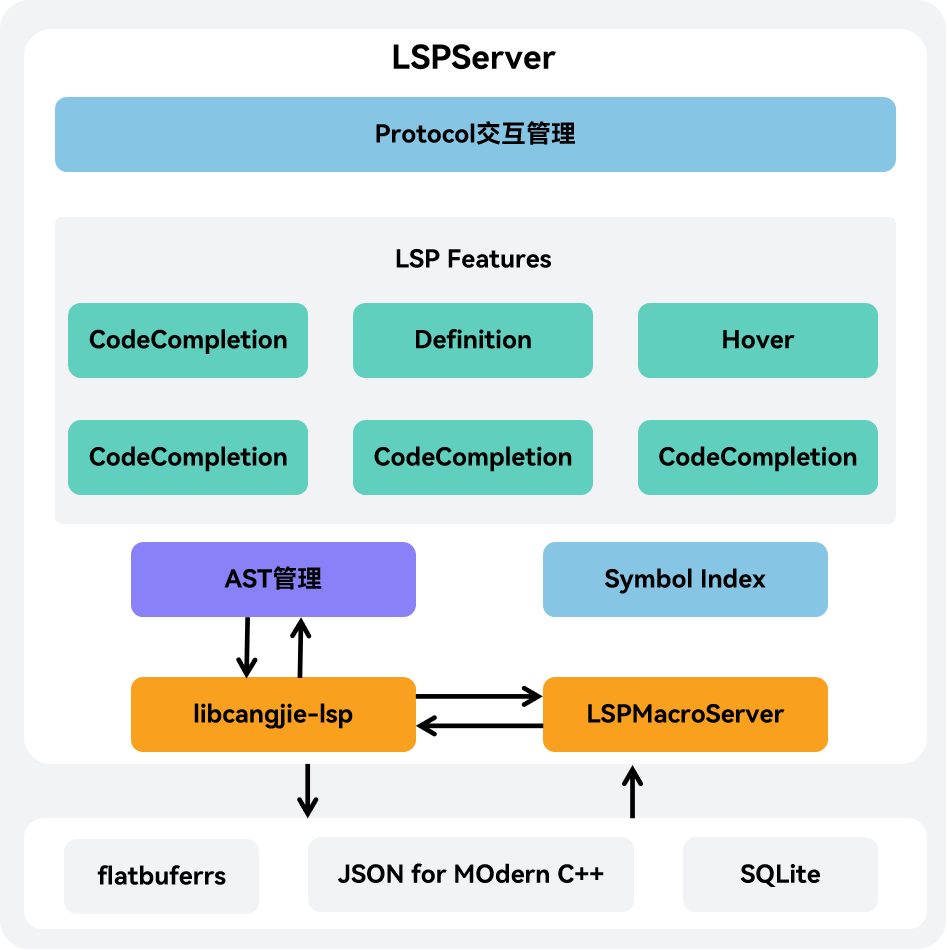
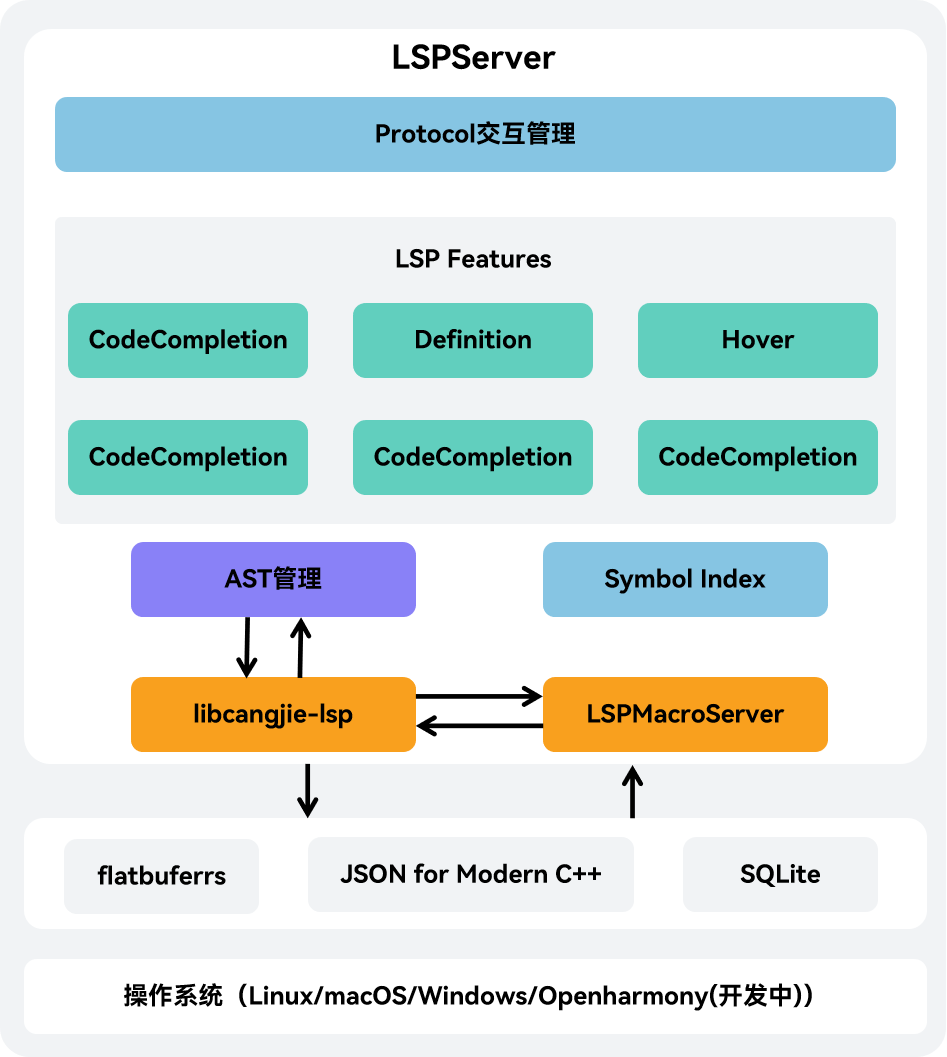
fix: change lsp doc png

diff --git a/cangjie-language-server/src/json-rpc/StdioTransport.cpp b/cangjie-language-server/src/json-rpc/StdioTransport.cpp
@@ -82,7 +82,7 @@ void StdioTransport::SendMsg(const nlohmann::json &message)
     std::ostringstream os;
     // "-1", no indentation format
     os << message.dump(-1, ' ', false, nlohmann::json::error_handler_t::ignore);
-    (void)fprintf(pFileOut, "Content-Length:%d%s%s",
+    (void)fprintf(pFileOut, "Content-Length: %d%s%s",
                    static_cast<int>(os.str().size()), MessageHeaderEndOfLine::GetEol().c_str(), os.str().c_str());
     (void)fflush(pFileOut);
     CleanAndLog(log, "send message body:" + os.str());

diff --git a/README.md b/README.md
@@ -62,7 +62,7 @@ This project is licensed under [Apache-2.0 with Runtime Library Exception](./LIC
 | Software Name        | License             | Usage Description                                               | Main Component | Usage Method                               |
 |----------------------|---------------------|-----------------------------------------------------------------|----------------|--------------------------------------------|
 | flatbuffers          | Apache License V2.0 | Cangjie Language Server serializes and deserializes index data. | LSPServer      | Integrated into the Cangjie binary release |
-| JSON  for Modern C++ | MIT License         | Cangjie Language Server for message parsing and encapsulation.  | LSPServer      | Integrated into the Cangjie binary release |
+| JSON for Modern C++  | MIT License         | Cangjie Language Server for message parsing and encapsulation.  | LSPServer      | Integrated into the Cangjie binary release |
 | SQLite               | Public Domain       | Cangjie Language Server uses the database to store index data.  | LSPServer      | Integrated into the Cangjie binary release |
 
 ## Contribution

diff --git a/README_OpenHarmony.md b/README_OpenHarmony.md
@@ -46,7 +46,7 @@ OpenHarmony 通过 `cangjie_tools` 各目录下的 `build` 目录内的提供的
 | 开源软件名称               | 开源许可协议              | 使用说明                  | 使用主体 | 使用方式         |
 |----------------------|---------------------|-----------------------|------|--------------|
 | flatbuffers          | Apache License V2.0 | 仓颉语言服务对索引数据进行序列化和反序列化 | 语言服务 | 集成到仓颉二进制发布包中 |
-| JSON  for Modern C++ | MIT License         | 仓颉语言服务用于报文解析和封装       | 语言服务 | 集成到仓颉二进制发布包中 |
+| JSON for Modern C++  | MIT License         | 仓颉语言服务用于报文解析和封装       | 语言服务 | 集成到仓颉二进制发布包中 |
 | SQLite               | Public Domain       | 仓颉语言服务使用数据库存储索引数据     | 语言服务 | 集成到仓颉二进制发布包中 |
 
 ## 风险提示

diff --git a/README_zh.md b/README_zh.md
@@ -62,7 +62,7 @@
 | 开源软件名称               | 开源许可协议              | 使用说明                  | 使用主体 | 使用方式         |
 |----------------------|---------------------|-----------------------|------|--------------|
 | flatbuffers          | Apache License V2.0 | 仓颉语言服务对索引数据进行序列化和反序列化 | 语言服务 | 集成到仓颉二进制发布包中 |
-| JSON  for Modern C++ | MIT License         | 仓颉语言服务用于报文解析和封装       | 语言服务 | 集成到仓颉二进制发布包中 |
+| JSON for Modern C++  | MIT License         | 仓颉语言服务用于报文解析和封装       | 语言服务 | 集成到仓颉二进制发布包中 |
 | SQLite               | Public Domain       | 仓颉语言服务使用数据库存储索引数据     | 语言服务 | 集成到仓颉二进制发布包中 |
 
 ## 参与贡献

diff --git a/cangjie-language-server/doc/developer_guide_EN.md b/cangjie-language-server/doc/developer_guide_EN.md
@@ -2,13 +2,13 @@
 
 ## Open Source Project Introduction
 
-This project is a language server that supports IDE features for Cangjie.
+This project is a language server that supports IDE features for Cangjie, It is a backend server and must be used in conjunction with an IDE client. Developers can utilize the VSCode extension officially released by Cangjie or develop their own IDE clients compatible with the Language Server Protocol (LSP).
 
 The project can be compiled into an executable named LSPServer.
 
 The system architecture diagram is as follows:
 
-![SystemArchitecture](./figures/SystemArchitecture.png)
+![SystemArchitecture](./figures/SystemArchitecture_EN.png)
 
 ## Directory Structure
 

diff --git a/cangjie-language-server/doc/user_guide_EN.md b/cangjie-language-server/doc/user_guide_EN.md
@@ -13,7 +13,7 @@ The startup parameters for `Cangjie Language Server` are as follows:
 ```bash
 --test                Used to launch LSPServer in test mode
 --disableAutoImport   Disables the automatic package import feature for code completion
---enable-log=<value>  Enables log generation by default; pass false to disable log generation
+--enable-log=<value>  Disables log generation by default; pass true to open log generation
 --log-path=<value>    Sets the path for generated logs
 -V                    Enables crash log generation functionality
 ```

diff --git a/cangjie-language-server/doc/user_guide.md b/cangjie-language-server/doc/user_guide.md
@@ -13,7 +13,7 @@
 ```bash
 --test                用于在测试中启动LSPServer
 --disableAutoImport   禁用补全自动包导入功能
---enable-log=<value>  默认开启日志生成，如果传入false，则关闭日志生成
+--enable-log=<value>  默认关闭日志生成，如果传入true，则开启日志生成
 --log-path=<value>    设置生成日志路径
 -V                    开启生成崩溃日志功能
 ```

diff --git a/cangjie-language-server/doc/developer_guide.md b/cangjie-language-server/doc/developer_guide.md
@@ -2,7 +2,7 @@
 
 ## 开源项目介绍
 
-该项目是一个语言服务工具，支持仓颉的IDE功能。
+该项目是一个语言服务工具，是在IDE上提供仓颉语言服务的服务器后端，需要搭配IDE客户端使用。开发者可以搭配仓颉发布的VSCode插件，或自行开发适配LSP协议的IDE客户端使用。
 
 这个工程可以编译成一个名为LSPServer的可执行文件。
 
